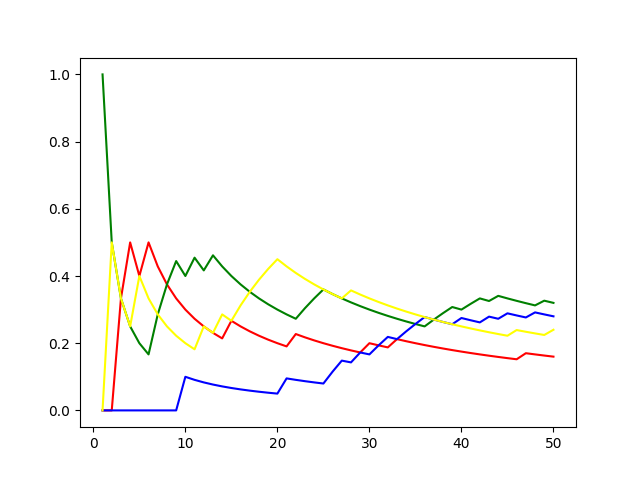
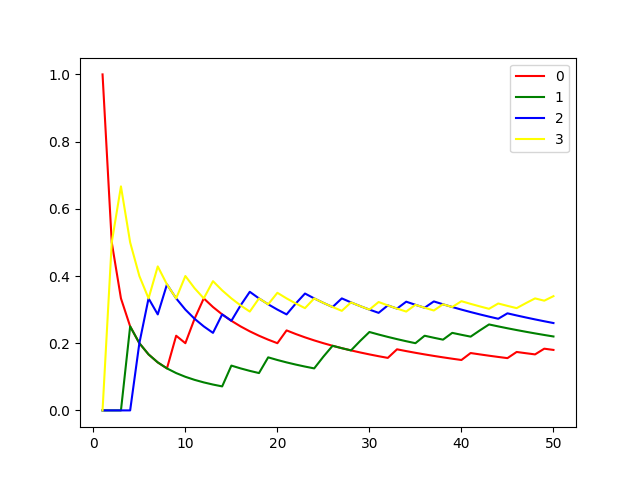
done

diff --git a/assignment7/problem2b.py b/assignment7/problem2b.py
@@ -13,9 +13,18 @@ def makeMatrix(file):
   return np.array(m)
 
 
-def writeToFile(ans):
-  with open('problem2aOp.txt', 'w') as f:
-    f.write(str(ans))
+def calc(detA, dets, infinite, mA, mB):
+  lines = ['3 1\n']
+  if (not infinite):
+    for det in dets:
+      lines.append(str(float(det / detA)) + '\n')
+  else:
+    z = mA[0, 0] + mA[0, 1] - mB[0]
+    lines.append('1\n')
+    lines.append('1\n')
+    lines.append(str(z[0]))
+  with open('problem2bOp.txt', 'w') as f:
+    f.writelines(lines)
 
 
 def main():
@@ -29,16 +38,16 @@ def main():
   mB = makeMatrix(fB)
   detA = np.linalg.det(mA)
   if (detA != 0):
-    return writeToFile('Unique solution')
+    return calc(detA, dets, False, mA, mB)
   dets = []
   for i in range(3):
     mAX = mA.copy()
     mAX[:, i] = mB[:, 0]
     dets.append(np.linalg.det(mAX))
   if (dets[0] == 0 and dets[1] == 0 and dets[2] == 0):
-    return writeToFile('Infinite solutions')
+    return calc(detA, dets, True, mA, mB)
   else:
-    return writeToFile('No solution')
+    return
 
 
 main()

diff --git a/assignment7/problem3b.py b/assignment7/problem3b.py
@@ -1,0 +1,23 @@
+import matplotlib.pyplot as plt
+import numpy as np
+import random
+
+SIM_COUNT = 50000
+
+
+def simulate(noOfTrials):
+  observations = [random.randint(0, 3) for _ in range(noOfTrials)]
+  return np.mean(observations)
+
+
+def main(noOfTrials):
+  sample_means = [simulate(noOfTrials)
+                  for _ in range(SIM_COUNT)]
+  plt.hist(sample_means, bins=60, density=True, alpha=0.6, color='b')
+  plt.title(f'Histogram of Sample Means (Trials: {noOfTrials})')
+  plt.show()
+  plt.savefig(f'problem3b_{noOfTrials}_50000.png')
+
+
+main(5)
+main(50)

diff --git a/assignment7/problem3a.py b/assignment7/problem3a.py
@@ -28,7 +28,8 @@ def getfrequency(outcomes, n):
 def plot(relative_frequencies, n):
   for i in range(4):
     plt.plot(range(1, n + 1), relative_frequencies[i],
-             label='Relative Frequency', color=colors[i])
+             label=i, color=colors[i])
+    plt.legend(loc='upper right')
   plt.savefig('problem3a_' + str(n) + '.png')
   # plt.show()
   plt.close()
